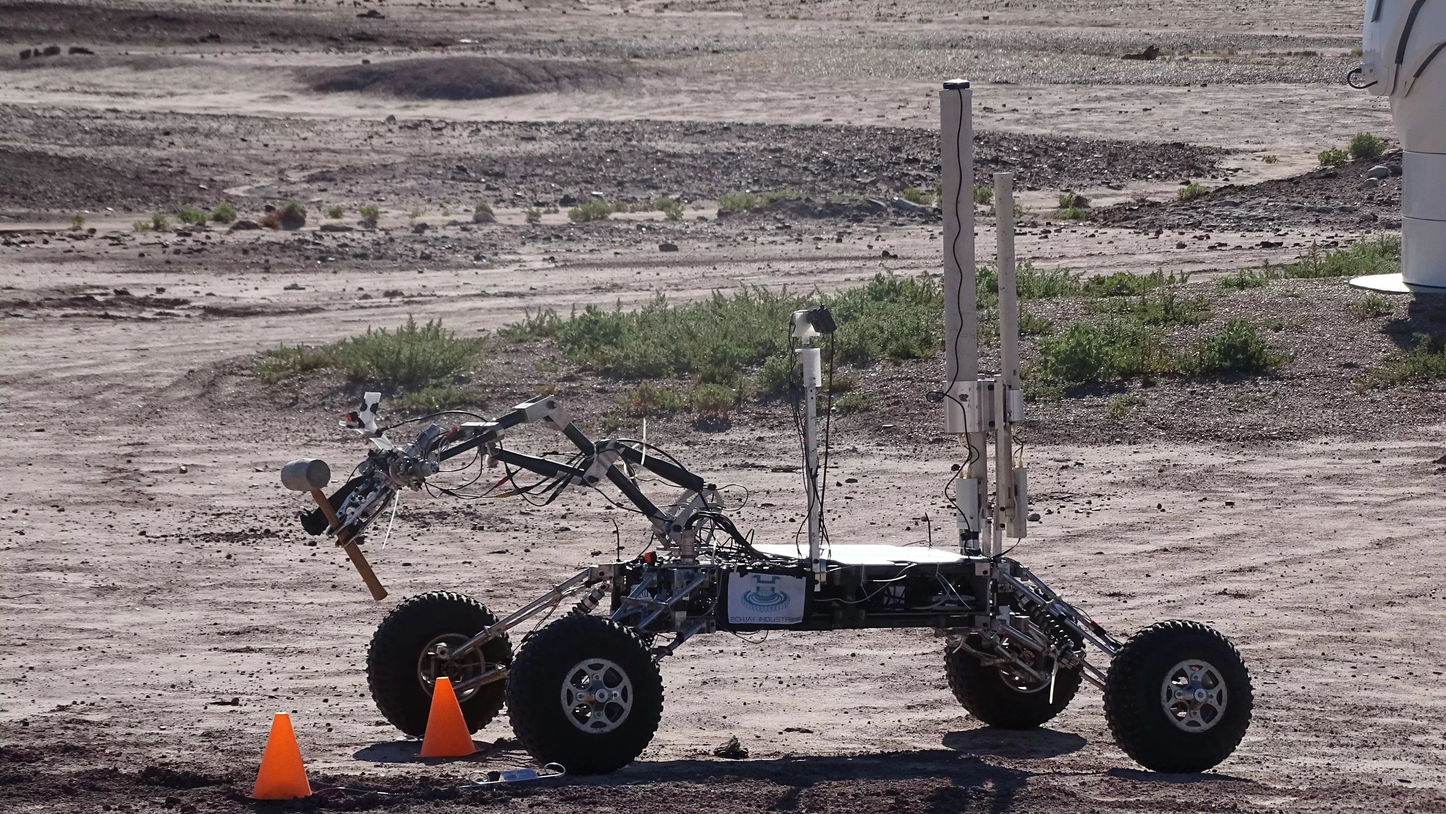
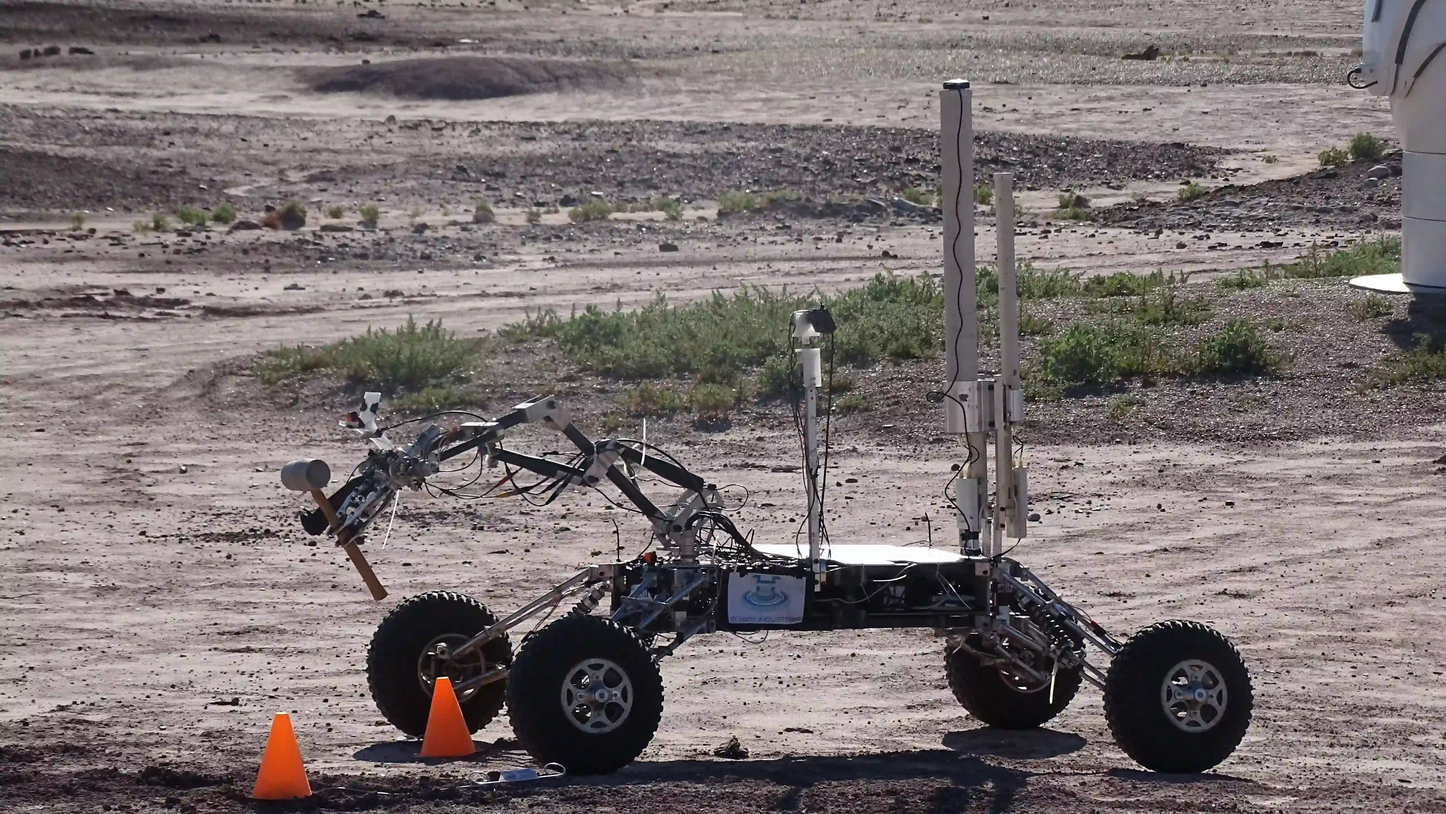
images optimized

diff --git a/src/pages/AboutUs/FAdata.js b/src/pages/AboutUs/FAdata.js
@@ -1,48 +1,44 @@
 const data = [
-    {
-        id: 1,
-        name: 'Gururaj Bolar',
-        img: 'Faculty Advisors/gururaj.jpg',
-        pos: 'Assistant Professor',
-        dept: 'Department of Mechanical & Manufacturing Engineering',
-        year: "2021-2022",
-    },
-    {
-        id: 2,
-        name: 'Dr. Ujjwal Verma',
-        img: 'Faculty Advisors/ujjwal.jpg',
-        pos: 'Associate Professor',
-        dept: 'Department of Electronics & Communication Engineering',
-        year: "2021-2022",
-    },
-    {
-        id: 3,
-        name: 'Navaneeth Krishna Vernekar',
-        img: 'Faculty Advisors/navaneeth.jpg',
-        pos: 'Assistant Professor-Senior scale',
-        dept: 'Department of Mechanical & Manufacturing Engineering',
-        year: "2018-2021",
-    },
-    {
-        id: 4,
-        name: 'Ramakrishna Vikas Sadanand',
-        img: 'Faculty Advisors/ramakrishna.jpg',
-        pos: 'Assistant Professor (Senior Scale)',
-        dept: 'Department of Mechanical & Manufacturing Engineering',
-        year: "2020-2021",
+  {
+    id: 1,
+    name: "Gururaj Bolar",
+    img: "Faculty Advisors/gururaj.webp",
+    pos: "Assistant Professor",
+    dept: "Department of Mechanical & Manufacturing Engineering",
+    year: "2021-2022",
+  },
+  {
+    id: 2,
+    name: "Dr. Ujjwal Verma",
+    img: "Faculty Advisors/ujjwal.webp",
+    pos: "Associate Professor",
+    dept: "Department of Electronics & Communication Engineering",
+    year: "2021-2022",
+  },
+  {
+    id: 3,
+    name: "Navaneeth Krishna Vernekar",
+    img: "Faculty Advisors/navaneeth.webp",
+    pos: "Assistant Professor-Senior scale",
+    dept: "Department of Mechanical & Manufacturing Engineering",
+    year: "2018-2021",
+  },
+  {
+    id: 4,
+    name: "Ramakrishna Vikas Sadanand",
+    img: "Faculty Advisors/ramakrishna.webp",
+    pos: "Assistant Professor (Senior Scale)",
+    dept: "Department of Mechanical & Manufacturing Engineering",
+    year: "2020-2021",
+  },
+  {
+    id: 5,
+    name: "Y Shrihari Upadhyaya",
+    img: "Faculty Advisors/srihari.webp",
+    pos: "Associate Professor (Senior Scale)",
+    dept: "Department of Mechanical & Manufacturing Engineering",
+    year: "2016-2018",
+  },
+];
 
-    },
-    {
-        id: 5,
-        name: 'Y Shrihari Upadhyaya',
-        img: 'Faculty Advisors/srihari.jpg',
-        pos: 'Associate Professor (Senior Scale)',
-        dept: 'Department of Mechanical & Manufacturing Engineering',
-        year: "2016-2018",
-    },
-
-]
-
-export default data
-
-
+export default data;
